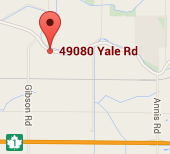
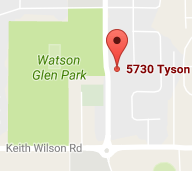
Update studio address

diff --git a/index.html b/index.html
@@ -81,20 +81,20 @@
             <h1>Contact</h1>
         </header>
         <div class="container clearfix">
-            <a class="maplink" target="_blank" href="https://www.google.ca/maps/place/49080+Yale+Rd,+Chilliwack,+BC+V2P+6H4/@49.1755139,-121.8669062,17z/data=!3m1!4b1!4m2!3m1!1s0x54846aac0619427b:0x5eb59b88e149c5ac">
+            <a class="maplink" target="_blank" href="https://www.google.ca/maps/place/5730+Tyson+Rd,+Chilliwack,+BC+V2R+3R6/@49.106223,-121.978376,17z/data=!3m1!4b1!4m5!3m4!1s0x548447214bb069d9:0x57330dde41950daa!8m2!3d49.106223!4d-121.976182?hl=en">
                 <img src="assets/map.png" alt="map to the studio" />
             </a>
 
             <dl>
                 <dt>Location</dt>
                 <dd>My studio is located at
-                    <a target="_blank" href="https://www.google.ca/maps/place/49080+Yale+Rd,+Chilliwack,+BC+V2P+6H4/@49.1755139,-121.8669062,17z/data=!3m1!4b1!4m2!3m1!1s0x54846aac0619427b:0x5eb59b88e149c5ac">49080 Yale Road East</a>
-                    , in the Chilliwack/Rosedale area.
+                    <a target="_blank" href="https://www.google.ca/maps/place/5730+Tyson+Rd,+Chilliwack,+BC+V2R+3R6/@49.106223,-121.978376,17z/data=!3m1!4b1!4m5!3m4!1s0x548447214bb069d9:0x57330dde41950daa!8m2!3d49.106223!4d-121.976182?hl=en">5730 Tyson Road</a>
+                    in Sardis, BC.
                 </dd>
                 <dt>Phone</dt>
                 <dd><a href="tel:6047945529">604.794.5529</a></dd>
                 <dt>Email</dt>
-                <dd><a href="mailto:kennyblu20+website@gmail.com">kennyblu20@gmail.com</a></dd>
+                <dd><a href="mailto:kennyblu20+website@gmail.com">kennyblu20+website@gmail.com</a></dd>
             </dl>
         </div>
     </section>
